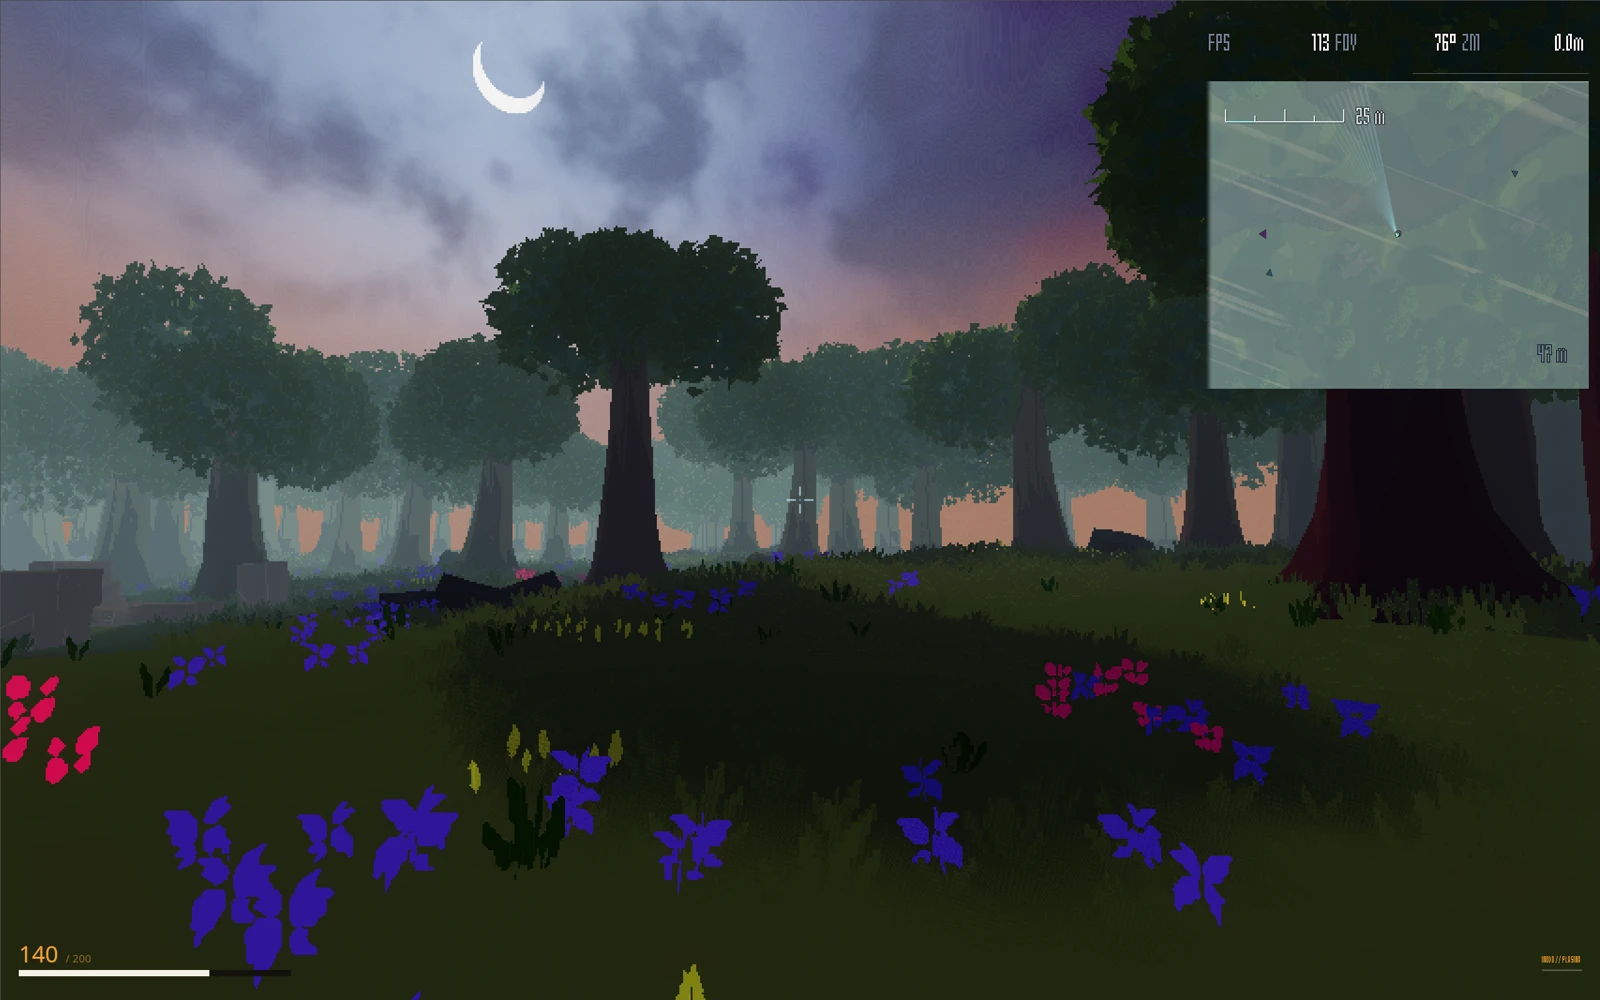
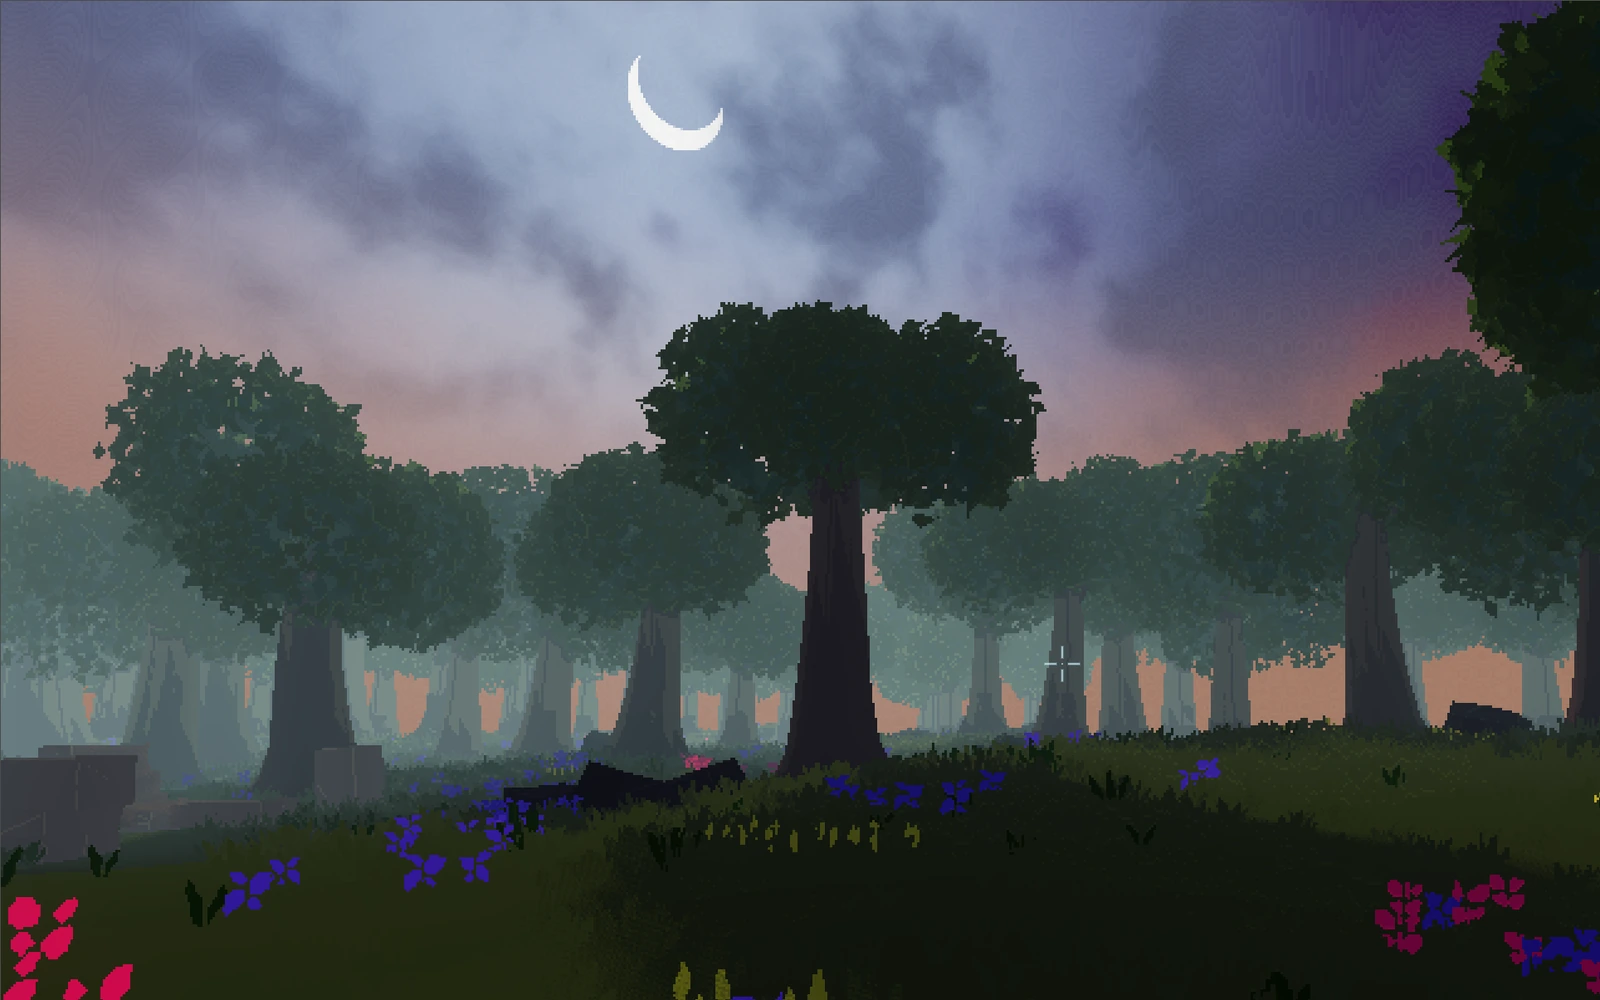
Reencuadre de fotos y acentos del mapa de impacto
- bosque sin el HUD de depuracion (FPS, minimapa, vida)
- retrato recortado a la cara
- Punto U capturado en movil y mostrado como telefono
- App.tsx tenia 7 bytes en latin-1: salian como rombos

diff --git a/src/styles.css b/src/styles.css
@@ -5,3 +5,6 @@
 @media(prefers-reduced-motion:reduce){html{scroll-behavior:auto}*,*::before,*::after{animation:none!important;transition:none!important}}html[data-motion='paused']{scroll-behavior:auto}html[data-motion='paused'] *,html[data-motion='paused'] *::before,html[data-motion='paused'] *::after{animation-play-state:paused!important;transition:none!important}
 .workflow-map{display:grid;grid-template-columns:1fr 1fr;gap:12px;margin:24px 0}.workflow-map button{display:flex;align-items:flex-start;gap:12px;text-align:left;min-height:95px;border:1px solid #57718e;border-radius:10px;background:#1d304b;padding:17px;font-size:14px;line-height:1.6}.workflow-map button span{color:#a9c8ff;font-size:12px}.workflow-map button[aria-pressed=true]{background:#304b69;border-color:#b5d5ee}.step-explanation{min-height:110px;border-left:2px solid #a9c8ff;padding:4px 0 4px 20px}.language-section{margin-top:48px;border-top:1px solid var(--line);padding-top:30px}.language-section h3{font-size:26px}.language-section p{margin-top:16px;color:var(--muted)}.project-featured .project-media{aspect-ratio:4/3;padding:20px;background:#e9edf3}.project-featured .project-media img{object-fit:contain;object-position:center;background:#e9edf3}.project-featured .project-media:hover img{transform:none}@media(max-width:500px){.workflow-map{grid-template-columns:1fr}.step-explanation{min-height:0}.project-featured .project-media{padding:12px}}
 .impact-preview{min-height:470px;padding:28px;display:flex;flex-direction:column;align-items:center;justify-content:center;background:radial-gradient(ellipse at center,#304c65,#182b44);height:100%}.impact-tag{font-size:10px;letter-spacing:.14em;color:#b7d0e6;margin-bottom:24px}.impact-node{width:min(100%,270px);padding:15px 22px;border:1px solid #6283a1;border-radius:9px;background:#233b55;font:14px ui-monospace,monospace}.impact-node small{display:block;font:12px 'DM Sans Variable',sans-serif;color:#b8cde0;margin-top:8px}.impact-focus{border-color:#afdbf5;box-shadow:0 0 32px #87c5f016}.impact-connector{height:27px;width:1px;background:#91bdd9}.impact-preview p{font-size:11px;color:#b8cde0;margin-top:24px;text-align:center}.project-media.media-impact{aspect-ratio:auto}
+.identity img{object-position:center}
+.project-featured .project-media.media-punto{display:flex;align-items:center;justify-content:center;padding:22px;background:linear-gradient(160deg,#e9edf3,#cdd8e6)}
+.project-featured .media-punto img{width:auto;max-width:100%;height:100%;border:5px solid #0b1220;border-radius:24px;background:#0b1220;box-shadow:0 18px 40px #0b122040}

diff --git a/src/personal.ts b/src/personal.ts
@@ -1,6 +1,6 @@
 // Contact information and portrait supplied by Bruno.
 export const personal: { portrait: string | null; linkedIn: string | null; email: string; github: string; phone: string } = {
-  portrait: '/media/bruno.jpg',
+  portrait: '/media/bruno-face.jpg',
   linkedIn: 'https://www.linkedin.com/in/bruno-salas-969b78282/',
   email: 'Brunich99@gmail.com',
   github: 'https://github.com/Brunich',

diff --git a/public/media/SOURCES.md b/public/media/SOURCES.md
@@ -14,3 +14,8 @@
 - rogue-forest-first-person.webp: captura de Bruno de 2026-09-26 18:27:06, mismo procedimiento. El segundo monitor y su contenido privado no se incluyen.
 - La escena aislada de roca/agua fue rechazada por Bruno y sus renders se retiraron de public/media. No usar como comparación del juego.
 - shader-original/forest_0.webp, forest_1.webp y forest_3.webp: capturas 1600×900 del bosque_definitive_jugable.tscn con MainRenderer original, cámara fija y presets 0/1/3 de DisplayResolution. Sol y ambiente originales, tiempo de escena fijado; exportación WebP calidad 95. Capturador temporal tmp/portfolio_real_capture.gd; sin cambios a escenas ni shaders. No representan un interruptor de iluminación.
+
+## Reencuadre 2026-09-26
+- rogue-forest-overview.webp y rogue-forest-first-person.webp: recortadas de nuevo desde las mismas capturas (primer monitor) para dejar fuera el HUD de depuración (FPS/FOV, minimapa y barra de vida). Recorte 1928×1205 → 1600×1000, sin retoque. La mira central de primera persona sigue visible.
+- bruno-face.jpg: recorte cuadrado de bruno.jpg centrado en la cara; excluye a la persona del borde izquierdo. Sin edición.
+- punto-u.webp: nueva captura de https://punto-u-app.vercel.app a 390×1000 px (escala 2), sin crear cuenta ni escribir datos. Con 844 px de alto la propia app corta su logo; con 1000 px sale entero.
